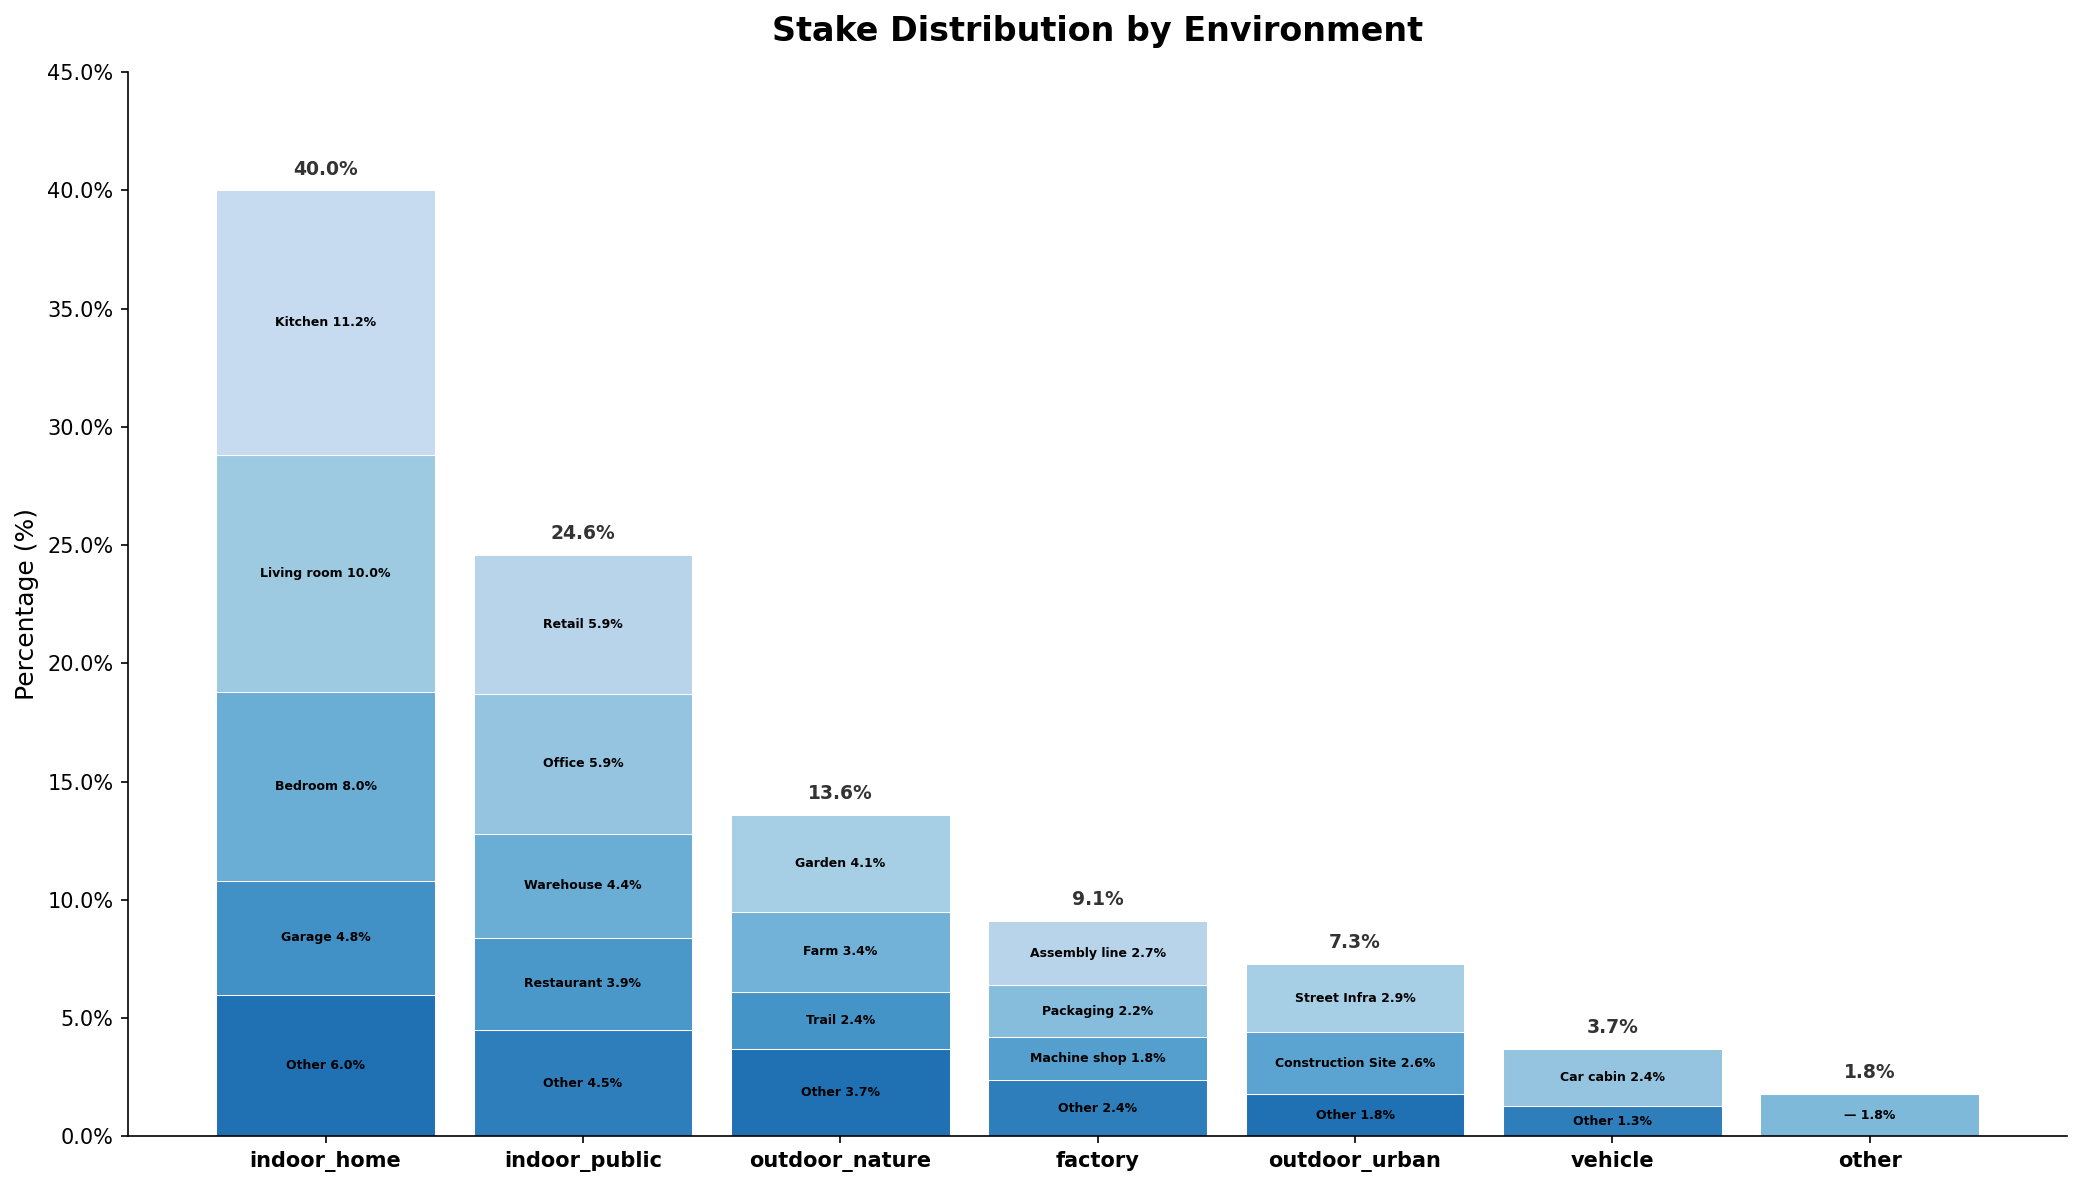
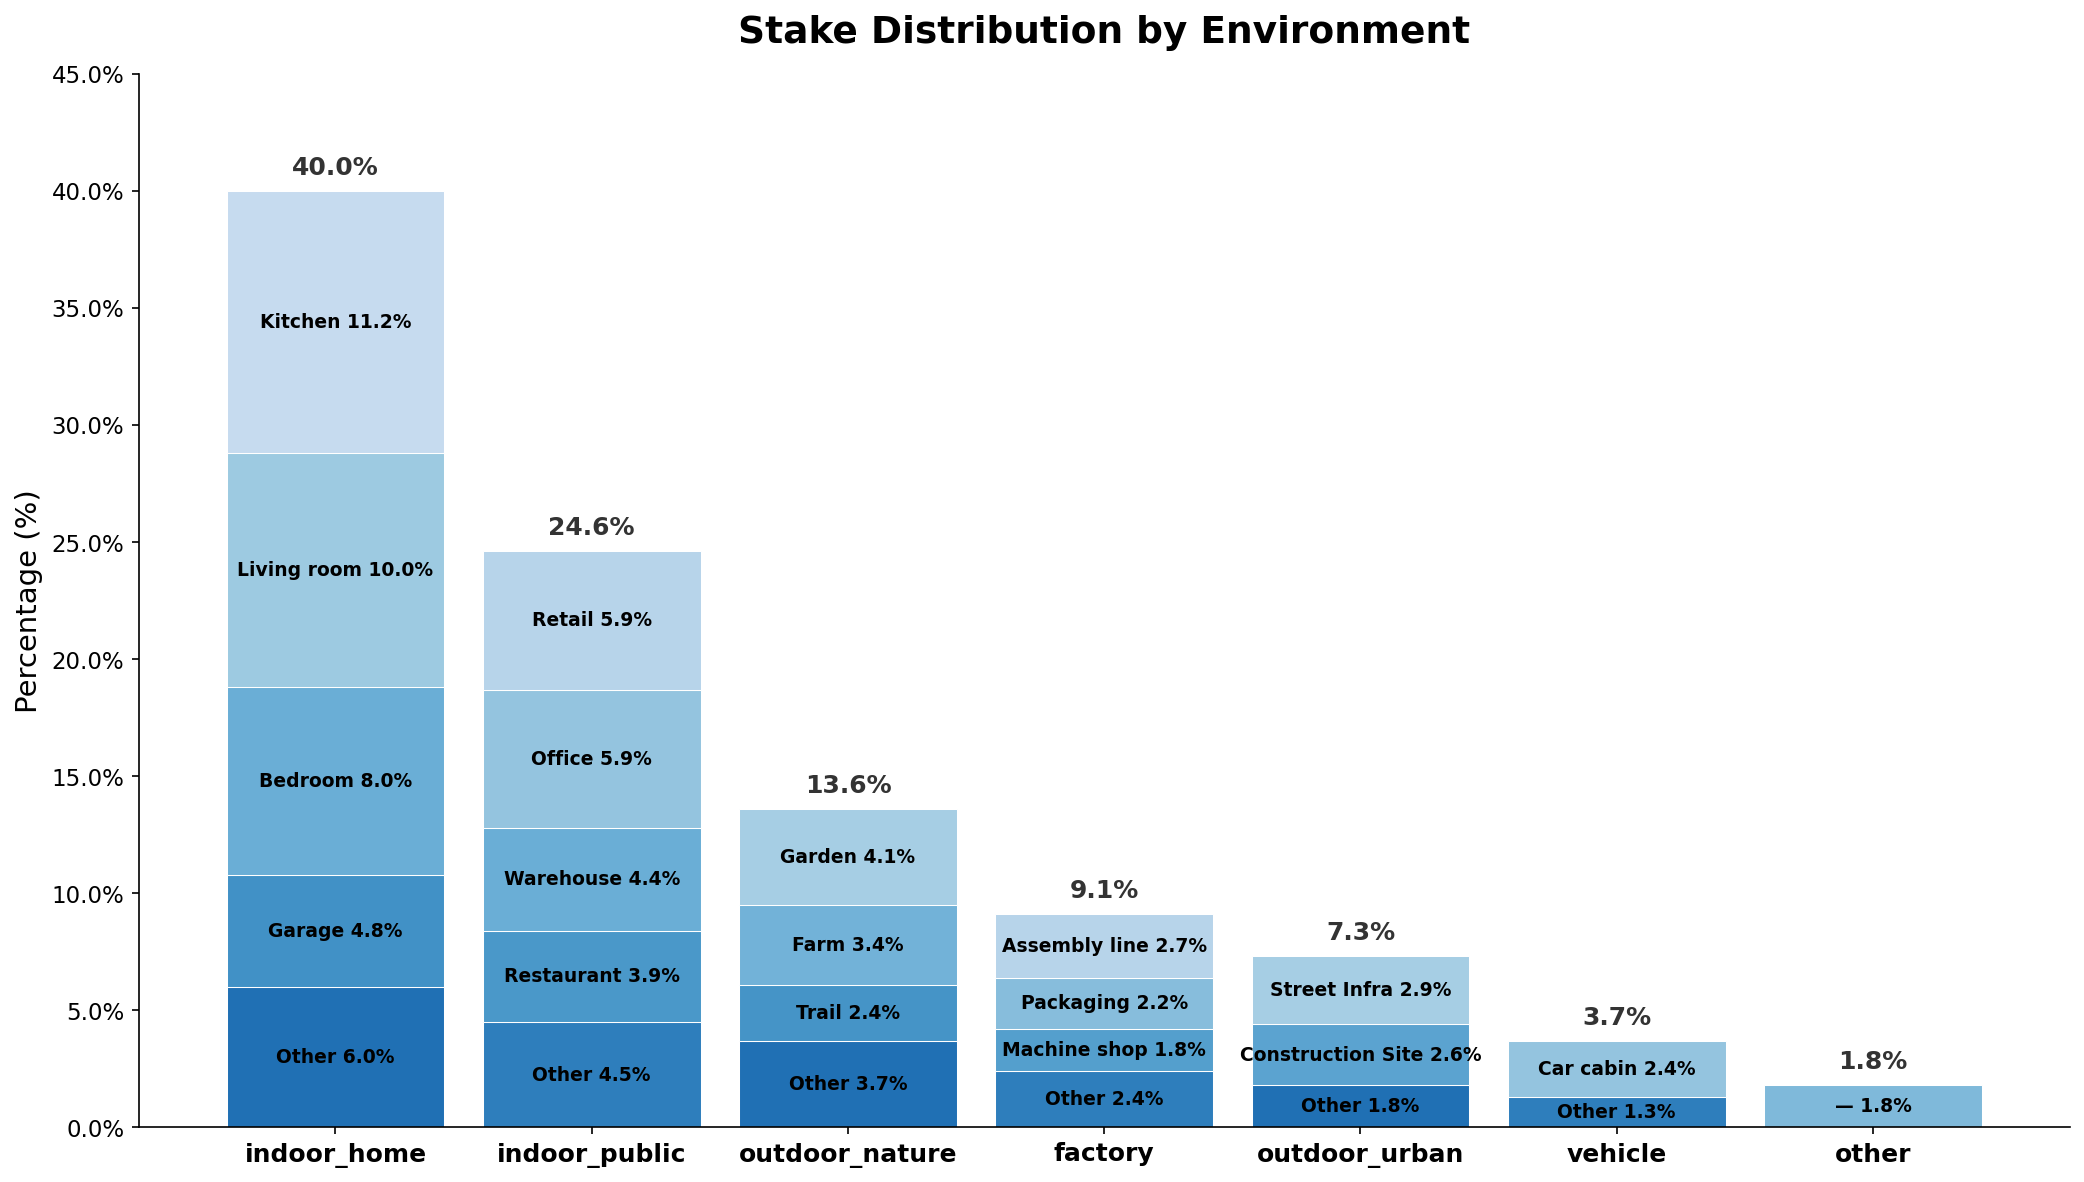
Increase all font sizes for better readability
https://claude.ai/code/session_018xFGws4xpUTXJntMBVQsZP

diff --git a/stake_histogram.py b/stake_histogram.py
@@ -91,7 +91,7 @@ for i, env in enumerate(env_names):
             label,
             ha="center",
             va="center",
-            fontsize=6,
+            fontsize=9,
             fontweight="bold",
             color="black",
             clip_on=True,
@@ -107,15 +107,16 @@ for i, env in enumerate(env_names):
         f"{total:.1f}%",
         ha="center",
         va="bottom",
-        fontsize=9,
+        fontsize=12,
         fontweight="bold",
         color="#333333",
     )
 
 ax.set_xticks(x_positions)
-ax.set_xticklabels(env_names, fontsize=10, fontweight="bold")
-ax.set_ylabel("Percentage (%)", fontsize=12)
-ax.set_title("Stake Distribution by Environment", fontsize=16, fontweight="bold", pad=15)
+ax.set_xticklabels(env_names, fontsize=12, fontweight="bold")
+ax.set_ylabel("Percentage (%)", fontsize=14)
+ax.set_title("Stake Distribution by Environment", fontsize=18, fontweight="bold", pad=15)
+ax.tick_params(axis="y", labelsize=11)
 ax.yaxis.set_major_formatter(mticker.PercentFormatter())
 ax.set_ylim(0, 45)
 ax.spines["top"].set_visible(False)
